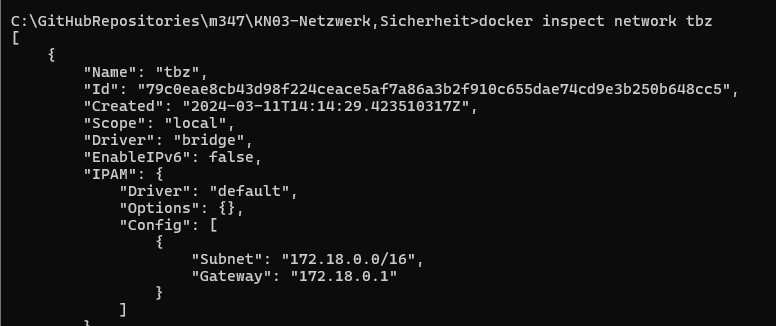
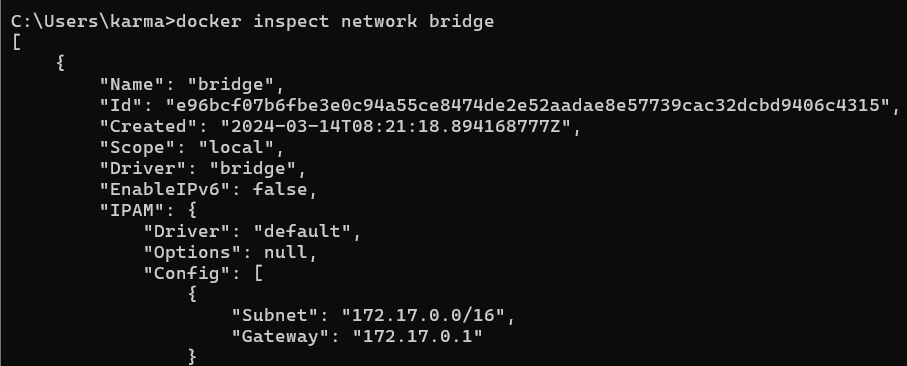
done kn03

diff --git a/KN03-Netzwerk,Sicherheit/README.md b/KN03-Netzwerk,Sicherheit/README.md
@@ -3,30 +3,77 @@
 ### A. Eignenes Netzwerk (100%)
 1. Screenshots der Befehle und deren Resultate. Achtung: Sie können Befehle zusammenfassen.
 
-    - Zuerst erstelle ich das benutzerdefinierte Netzwerk "tbz": <br>
+    - Zuerst erstelle ich das benutzerdefinierte Netzwerk "tbz", "bridge ist pre-defined": <br>
+        `docker network create -d tbz` <br>
         ![](images/1.png) <br>
-    - Dann habe ich die Container busybox1, busybox2, busybox3 und busybox4 im entsprechenden Netzwerk erstellt und gestartet. Ich verwende das nginx-Image:
-        ![](images/2.png) <br>
-    - Anschließend installiere ich die Netzwerk-Tools in jedem Container:
-        ![](images/3.png) <br>
 
-    - IP-Adressen von busybox1, busybox2, busybox3 und busybox4 erhalten
+    - Dann habe ich die Container busybox1, busybox2, busybox3 und busybox4 mit dem nginx-Image erstellt und sie den entsprechenden Netzwerken zugewiesen: <br>
+        `docker run --name busybox1 --network bridge -d nginx` <br>
+        `docker run --name busybox2 --network bridge -d nginx` <br>
+        `docker run --name busybox3 --network tbz -d nginx` <br>
+        `docker run --name busybox4 --network tbz -d nginx` <br>
+        ![](images/2.png) <br>
+
+    - Anschließend installiere ich die Netzwerk-Tools in jedem Container: <br>
+        `docker exec -it busybox1 apt-get update`, `docker exec -it busybox1 apt-get install net-tools iputils-ping` <br>
+        `docker exec -it busybox2 apt-get update`, `docker exec -it busybox2 apt-get install net-tools iputils-ping` <br>
+        `docker exec -it busybox3 apt-get update`, `docker exec -it busybox3 apt-get install net-tools iputils-ping` <br>
+        `docker exec -it busybox4 apt-get update`, `docker exec -it busybox4 apt-get install net-tools iputils-ping` <br>
+        ![](images/3.png) <br>
+        ![](images/3.1.png) <br>
+
+    - IP-Adressen von busybox1, busybox2, busybox3 und busybox4 erhalten: <br>
         ![](images/4.png) <br>
+        busybox1: 172.17.0.2 <br>
+        busybox2: 172.17.0.3 <br>
+        busybox3: 172.21.0.2 <br>
+        busybox4: 172.21.0.3 <br>
     
-    - TBZ network setting:
+    - TBZ network setting: <br>
+        subnet: 172.21.0.0/16 <br>
+        default gateway: 172.21.0.1 <br>
+        ![](images/5.png)
+    
+    - bridge network settings: <br>
+        subnet: 172.17.0.0/16 <br>
+        default gateway: 172.17.0.1 <br>
         ![](images/6.png)
 
-    - 
+    - ***Interaktive Session auf busybox1 gestartet:*** <br>
+        Default gateway: 172.17.0.1 <br>
+        `docker exec -it busybox1 sh` <br>
+        ![](images/7.png) <br>
 
-    - interaktive Session auf busybox1 gestartet:
-        ![](images/5.png) <br>
+    - ping busybox2 und ping busybox3: <br>
+        ![](images/8.png) <br>
 
-2. Führen Sie die Befehle in einer sinnvollen Reihenfolge aus.
-Erklären Sie die Gemeinsamkeiten und Unterschiede. Wie kommen die Zustande und was ist Ihre Schlussfolgerung.
+    - ping ip-von-busybox2 und ping ip-von-busybox3: <br>
+        ![](images/9.png) <br>
+    
+    - ***Interaktive Session auf busybox3 gestartet:*** <br>
+        Default gateway: 172.17.0.1 <br>
+        `docker exec -it busybox1 sh` <br>
 
+    - ping busybox1 und ping busybox4: <br>
+        ![](images/10.png) <br>
+
+    - ping ip-von-busybox1 und ping ip-von-busybox4: <br>
+        ![](images/11.png) <br>
+
+2. Erklären Sie die Gemeinsamkeiten und Unterschiede. Wie kommen die Zustande und was ist Ihre Schlussfolgerung. <br>
+
+    <strong>Gemeinsamkeiten:</strong> <br>
+    1. Beide Netze, das Standard-Bridge-Netz und das benutzerdefinierte "tbz"-Netz, ermöglichen die Kommunikation zwischen Containern, die in dasselbe Netzsegment (Subnetz) eingebunden sind.
+    
+    <strong>Unterschiede:</strong> <br>
+    1. Der Unterschied besteht darin, dass die Container mit dem Standard-Bridge-Netzwerk nur teilweise verbunden sind, nämlich nur über die IP-Adresse, die sich im Laufe der Zeit ändern kann. Wenn ich jedoch mein eigenes Netzwerk erstelle, kann ich Containernamen verwenden, die sich im Laufe der Zeit nicht ändern.
 
 3. Betrachten Sie nun KN02.
-    - In welchem Netzwerk befanden sich die beiden Container?
+    In KN02, the containers in the same gateway could not communicate via the container name but with the (--link), the name is linked with the IP address, which enables the container to communicate.
 
+    - In welchem Netzwerk befanden sich die beiden Container? <br>
+      busybox1: bridge <br>
+      busybox3: tbz <br>
 
-    - Wieso konnten die miteinander reden?
+    - Wieso konnten die miteinander reden? <br>
+      The two containers that were located in the "tbz" network could talk to each other via their names or IP addresses because they were in the same network segment (subnet). Communication between containers in the same network is enabled by default and does not require any special configurations.
